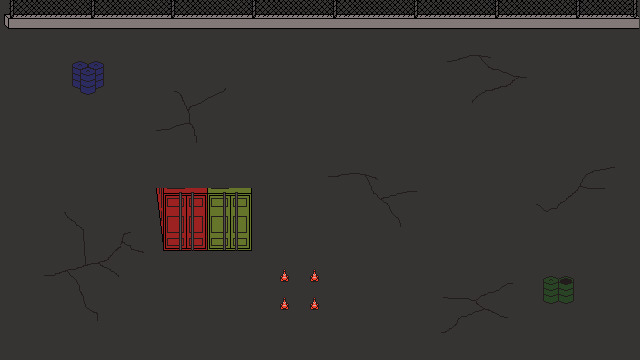
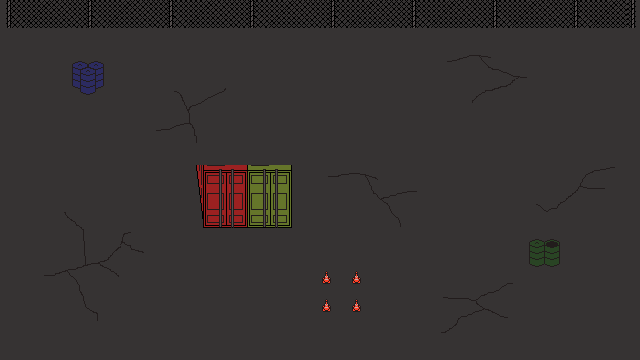
update comments and add sprites

diff --git a/project/src/map_helpers.c b/project/src/map_helpers.c
@@ -8,27 +8,26 @@ Map map;
 // set up map & props
 void init_map(Map *map)
 {
+
+    map->num_sprites = 3;
+    map->num_pickups = 1;
+    map->num_static_bodies = 2;
+
     Sprite_Sheet *sprite_sheet_map_1_main_bg = malloc(sizeof(Sprite_Sheet));
     Sprite_Sheet *sprite_sheet_chain_link_fence_horizontal_wide = malloc(sizeof(Sprite_Sheet));
-    Sprite_Sheet *sprite_sheet_shipping_container_red_front = malloc(sizeof(Sprite_Sheet));
-    Sprite_Sheet *sprite_sheet_shipping_container_red_back = malloc(sizeof(Sprite_Sheet));
-    Sprite_Sheet *sprite_sheet_shipping_container_red_front_2 = malloc(sizeof(Sprite_Sheet));
-    Sprite_Sheet *sprite_sheet_shipping_container_red_back_2 = malloc(sizeof(Sprite_Sheet));
+    Sprite_Sheet *sprite_sheet_shipping_containers_red_and_yellow_back = malloc(sizeof(Sprite_Sheet));
 
     // init sprite sheets
     render_sprite_sheet_init(sprite_sheet_map_1_main_bg, "assets/map_1.png", 640, 360);
-    render_sprite_sheet_init(sprite_sheet_chain_link_fence_horizontal_wide, "assets/chain_link_fence_horizontal_wide.png", 640, 80);
-    render_sprite_sheet_init(sprite_sheet_shipping_container_red_front, "assets/shipping_container_red_front.png", 52, 63);
-    render_sprite_sheet_init(sprite_sheet_shipping_container_red_back, "assets/shipping_container_red_back.png", 52, 59);
-    render_sprite_sheet_init(sprite_sheet_shipping_container_red_front_2, "assets/shipping_container_red_front.png", 52, 63);
-    render_sprite_sheet_init(sprite_sheet_shipping_container_red_back_2, "assets/shipping_container_red_back.png", 52, 59);
+    render_sprite_sheet_init(sprite_sheet_chain_link_fence_horizontal_wide, "assets/chain_link_fence_horizontal_wide_no_concrete_barbed_wire.png", 640, 75);
+    render_sprite_sheet_init(sprite_sheet_shipping_containers_red_and_yellow_back, "assets/shipping_containers_red_and_yellow_back.png", 96, 59);
 
     Sprite map_1_main_bg = (Sprite){
         .sprite_sheet = sprite_sheet_map_1_main_bg,
         .row = 0,
         .column = 0,
         .position = {320, 180},
-        .z_index = -2,
+        .z_index = -3,
         .is_flipped = false,
         .color = {1, 1, 1, 1},
     };
@@ -37,32 +36,23 @@ void init_map(Map *map)
         .sprite_sheet = sprite_sheet_chain_link_fence_horizontal_wide,
         .row = 0,
         .column = 0,
-        .position = {317, 45},
-        .z_index = 1,
+        .position = {317, 36},
+        .z_index = -3,
         .is_flipped = false,
         .color = {1, 1, 1, 1},
     };
 
-    Sprite shipping_container_red_front = (Sprite){
-        .sprite_sheet = sprite_sheet_shipping_container_red_front,
+    Sprite shipping_containers_red_and_yellow_back = (Sprite){
+        .sprite_sheet = sprite_sheet_shipping_containers_red_and_yellow_back,
         .row = 0,
         .column = 0,
-        .position = {320, 148},
-        .z_index = -1,
-        .is_flipped = false,
-        .color = {1, 1, 1, 1},
-    };
-    Sprite shipping_container_red_back = (Sprite){
-        .sprite_sheet = sprite_sheet_shipping_container_red_back,
-        .row = 0,
-        .column = 0,
-        .position = {320, 209},
-        .z_index = 1,
+        .position = {244, 224},
+        .z_index = -3,
         .is_flipped = false,
         .color = {1, 1, 1, 1},
     };
 
-    Sprite *sprite_array = malloc(4 * sizeof(Sprite));
+    Sprite *sprite_array = malloc(map->num_sprites * sizeof(Sprite));
     if (!sprite_array)
     {
         // Handle memory allocation error
@@ -71,16 +61,15 @@ void init_map(Map *map)
 
     sprite_array[0] = map_1_main_bg;
     sprite_array[1] = chain_link_fence_horizontal_wide;
-    sprite_array[2] = shipping_container_red_front;
-    sprite_array[3] = shipping_container_red_back;
+    sprite_array[2] = shipping_containers_red_and_yellow_back;
 
     // init static bodies TODO: will need to create array like above when we have more than 1
     Static_Body *bottom_fence = physics_static_body_create((vec2){320, 10}, (vec2){640, 3}, COLLISION_LAYER_TERRIAN);
-    Static_Body *red_shipping_container_static_body = physics_static_body_create((vec2){322, 165}, (vec2){32, 26}, COLLISION_LAYER_TERRIAN);
+    Static_Body *shipping_containers = physics_static_body_create((vec2){322, 165}, (vec2){32, 26}, COLLISION_LAYER_TERRIAN);
 
-    Static_Body *static_body_array = malloc(2 * sizeof(Static_Body));
+    Static_Body *static_body_array = malloc(map->num_static_bodies * sizeof(Static_Body));
     static_body_array[0] = *bottom_fence;
-    static_body_array[1] = *red_shipping_container_static_body;
+    static_body_array[1] = *shipping_containers;
 
     // init pickups
     render_sprite_sheet_init(&sprite_sheet_m44_spinning, "assets/m44_spinning.png", 30, 20);
@@ -101,13 +90,10 @@ void init_map(Map *map)
         .frames_on_status = 0};
     m44_pickup.entity->animation = anim_m44_spinning;
 
-    Pickup *pickup_array = malloc(sizeof(Pickup));
+    Pickup *pickup_array = malloc(map->num_pickups * sizeof(Pickup));
     // TODO: handle malloc failure here
     pickup_array[0] = m44_pickup;
 
-    map->num_sprites = 4;
-    map->num_pickups = 1;
-    map->num_static_bodies = 2;
     map->sprites = sprite_array;
     map->pickups = pickup_array;
     map->static_bodies = static_body_array;

diff --git a/project/src/main.c b/project/src/main.c
@@ -223,10 +223,11 @@ int main(int argc, char *argv[])
             render_sprite_sheet_frame(sprite.sprite_sheet, window, sprite.row, sprite.column, sprite.position, sprite.z_index, sprite.is_flipped, sprite.color, texture_slots);
         }
 
-        // uncomment to render map's static bodies
+        // uncomment and set sprite colors to (vec4){0.9, 0.9, 0.9, 0.9} to view map's static bodies
         // for (int i = 0; i < map.num_static_bodies; i++)
         // {
         //     Static_Body static_body = map.static_bodies[i];
+        //     render_aabb(&static_body, WHITE);
         // }
 
         render_end(window, texture_slots, true);
